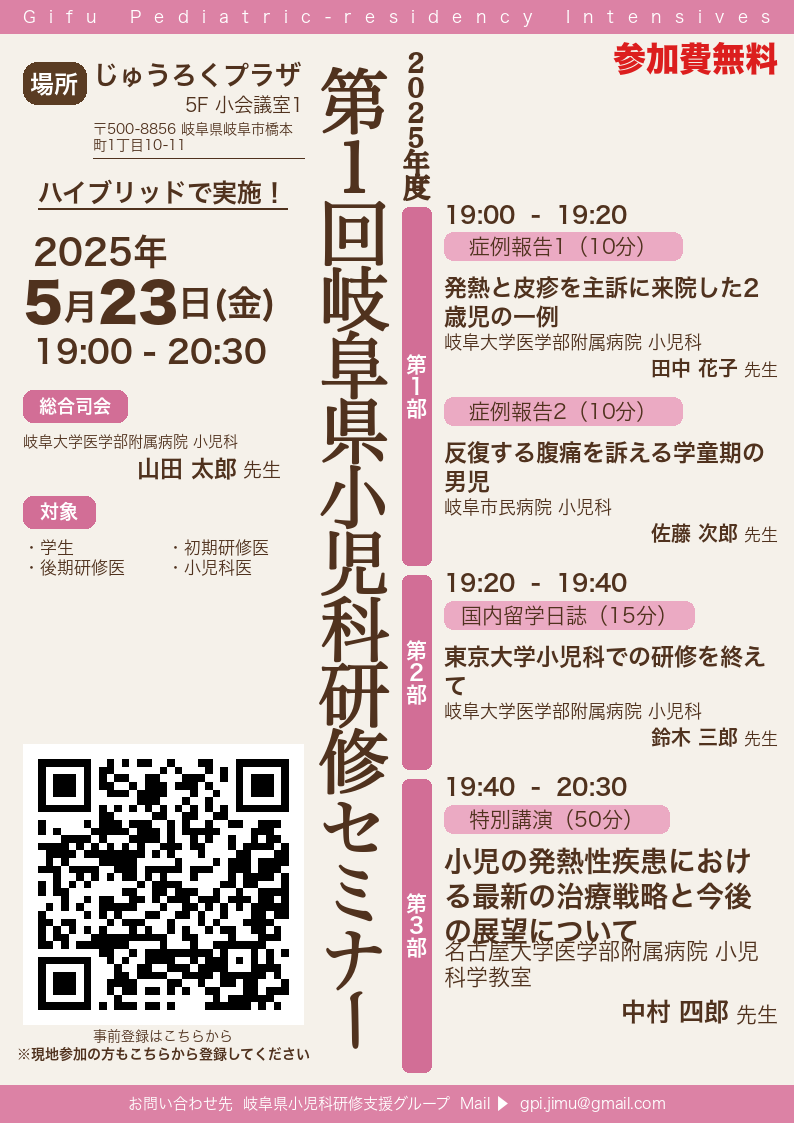
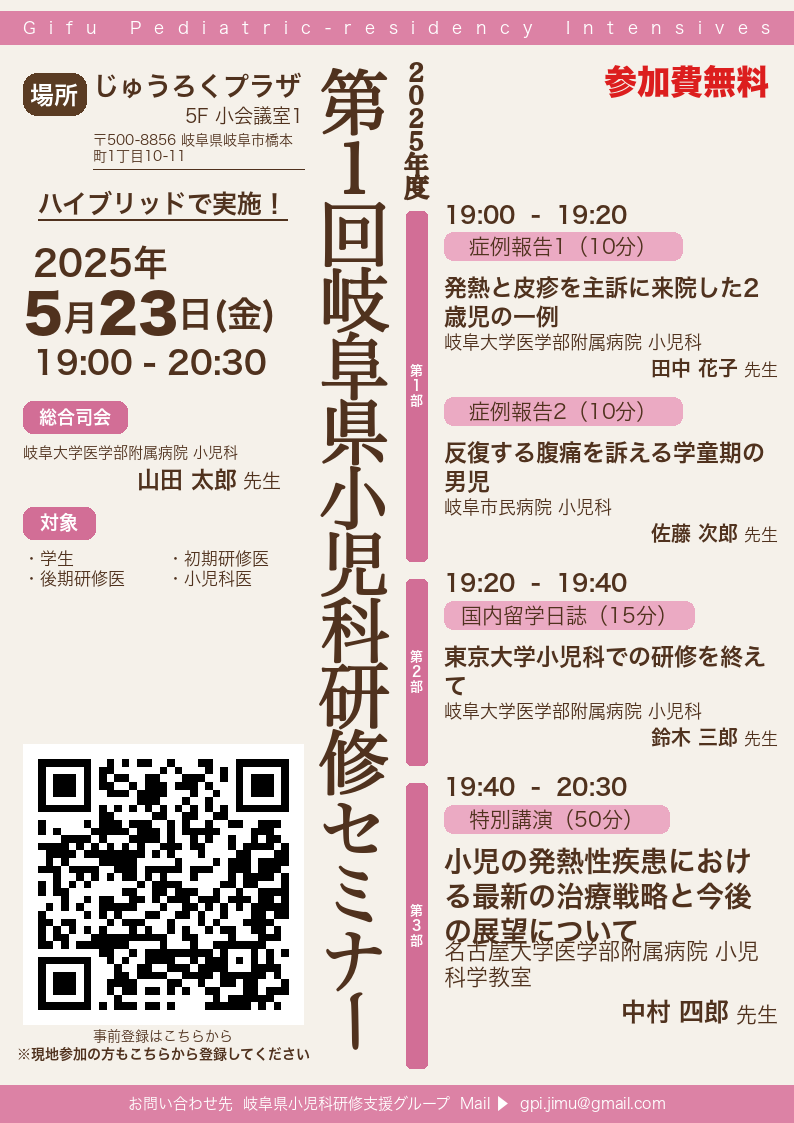
Refactor header and footer layout in poster rendering to improve spacing and alignment. Adjust padding and font size calculations for better visual consistency. Update related constants for enhanced design flexibility.

Changed region(s): [[0.0, 0.0, 1.0, 0.9662], [0.0302, 0.4363, 0.1511, 0.5298], [0.2116, 0.4675, 0.3325, 0.5298]]

diff --git a/poster/preview_renderer.py b/poster/preview_renderer.py
@@ -15,7 +15,7 @@ from poster.models import PosterData
 from poster.layout import (
     LayoutEngine,
     PREVIEW_W, PREVIEW_H,
-    HEADER_H, FOOTER_H,
+    HEADER_TOP, HEADER_H, FOOTER_H,
     LEFT_W, PROG_X, PROG_W, TITLE_X, TITLE_W, SECT_X, SECT_W,
     LC_PAD_L, LC_PAD_R,
     PROG_PAD_L, PROG_PAD_R,
@@ -89,11 +89,13 @@ def render_poster(data: PosterData, scale: float = 1.0) -> Image.Image:
     draw = ImageDraw.Draw(canvas)
 
     # ─── ヘッダー・フッター ──────────────────────────────────────────────
+    header_top = ph(HEADER_TOP)   # 帯の上余白（背景が見える）
     header_h = ph(HEADER_H)
+    header_bottom = header_top + header_h   # コンテンツ開始基準
     footer_h = ph(FOOTER_H)
     footer_y = H - footer_h
 
-    draw_header_bar(canvas, draw, header_h, theme)
+    draw_header_bar(canvas, draw, header_h, theme, y_top=header_top)
     draw_footer_bar(canvas, draw, footer_y, footer_h, data.contact_email, theme)
 
     # ─── 縦書きタイトル帯 ────────────────────────────────────────────────
@@ -105,25 +107,25 @@ def render_poster(data: PosterData, scale: float = 1.0) -> Image.Image:
     draw_vertical_title(
         canvas,
         f"第{data.session_num}回岐阜県小児科研修セミナー",
-        title_x, header_h, footer_y, title_w,
+        title_x, header_bottom, footer_y, title_w,
         ph(FS_V_TITLE)
     )
 
     # ─── 右ストリップ: 年度テキスト（固定位置） ──────────────────────────
     prog_top_y = ph(PROG_TOP)
     # 縦書きタイトルと同じ v_pad で上端を揃える
-    _v_pad = max(12, (footer_y - header_h) // 65)
+    _v_pad = max(12, (footer_y - header_bottom) // 65)
     draw_year_label_strip(
         draw,
         f"{data.year}年度",
-        sect_x, header_h + _v_pad, prog_top_y,   # 下端はパディングなし
+        sect_x, header_bottom + _v_pad, prog_top_y,   # 下端はパディングなし
         sect_w
     )
 
     # ─── 左カラム ────────────────────────────────────────────────────────
     lc_x  = pw(LC_PAD_L)
     lc_w  = pw(LEFT_W) - pw(LC_PAD_L) - pw(LC_PAD_R)
-    cur_y = header_h + ph(0.026)
+    cur_y = header_bottom + ph(0.026)
 
     # 場所バッジ + 会場名（横並び）
     badge_w = pw(BASHO_BW)
@@ -219,8 +221,8 @@ def render_poster(data: PosterData, scale: float = 1.0) -> Image.Image:
     # 参加費無料（上部右寄せ、赤）
     font_free = get_pillow_font("Black", ph(FS_SANSHUUHI))
     free_tw, free_th = get_text_size(draw, "参加費無料", font_free)
-    free_x = prog_x + prog_w - free_tw
-    free_y = header_h + ph(0.008)
+    free_x = prog_x + prog_w - free_tw - pw(0.012)
+    free_y = header_bottom + ph(0.018)
     draw.text((free_x, free_y), "参加費無料", fill=(220, 30, 30), font=font_free)
 
     # 動的レイアウト

diff --git a/poster/elements_pillow.py b/poster/elements_pillow.py
@@ -47,16 +47,16 @@ def _draw_text_spaced(draw: ImageDraw.ImageDraw, x: int, y: int,
 
 
 def draw_header_bar(canvas: Image.Image, draw: ImageDraw.ImageDraw,
-                    h: int, theme: dict):
+                    h: int, theme: dict, y_top: int = 0):
     """上部 "Gifu Pediatric-residency Intensives" バー（テーマカラー背景）"""
     W = canvas.width
     bar_color = theme.get("title_bar", DARK_BROWN)
-    draw.rectangle([0, 0, W, h], fill=bar_color)
+    draw.rectangle([0, y_top, W, y_top + h], fill=bar_color)
     font = get_pillow_font("Regular", max(10, int(h * 0.52)))
     text = "Gifu Pediatric-residency Intensives"
     pad = max(10, int(W * 0.03))
     _, th = get_text_size(draw, text, font)
-    _draw_text_spaced(draw, pad, (h - th) // 2, text, font, WHITE, W - pad * 2)
+    _draw_text_spaced(draw, pad, y_top + (h - th) // 2, text, font, WHITE, W - pad * 2)
 
 
 # ─── フッターバー ──────────────────────────────────────────────────────────
@@ -443,10 +443,11 @@ def draw_vertical_title(canvas: Image.Image,
     num_chars = len(main_title)
     avail_h = y_bot - y_top
 
-    # 上下に少しだけ余白を設ける（avail_h の約 1.5%、最低 12px）
-    v_pad = max(12, avail_h // 65)
-    y_top  = y_top + v_pad
-    avail_h = avail_h - 2 * v_pad
+    # 上下余白（上は小さめ、下は通常）
+    v_pad_top = max(4, avail_h // 120)
+    v_pad_bot = max(12, avail_h // 65)
+    y_top  = y_top + v_pad_top
+    avail_h = avail_h - v_pad_top - v_pad_bot
 
     # フォントサイズ: 帯幅の 88% を上限（従来65%から拡大）
     # 明朝体（ヒラギノ明朝）を使用
@@ -522,7 +523,7 @@ def draw_year_label_strip(draw: ImageDraw.ImageDraw,
 def draw_section_label_box(canvas: Image.Image,
                              x: int, y_start: int, y_end: int,
                              strip_w: int, label: str, theme: dict,
-                             pad: int = 5):
+                             pad: int = 9):
     """
     角丸長方形の第N部ラベルボックスを右ストリップに描画。
     ラベル文字を縦積みで中央配置する。
@@ -551,7 +552,7 @@ def draw_section_label_box(canvas: Image.Image,
         display = label[:idx + 1]
 
     # bw が小さくてもボックス内で読める最低限のサイズを確保
-    fs = max(13, int(bw * 0.75))
+    fs = max(11, int(bw * 0.62))
     font = get_pillow_font("Bold", fs)
     _, ch = get_text_size(draw, "あ", font)
     char_step = ch + 2

diff --git a/poster/layout.py b/poster/layout.py
@@ -25,6 +25,7 @@ HIRES_H = 3508
 
 # ─── ヘッダー・フッター ──────────────────────────────────────────────────
 
+HEADER_TOP = 0.010  # ヘッダー帯の上余白（背景が見える部分）
 HEADER_H = 0.030   # 上部バー高さ
 FOOTER_H = 0.034   # 下部バー高さ
 
